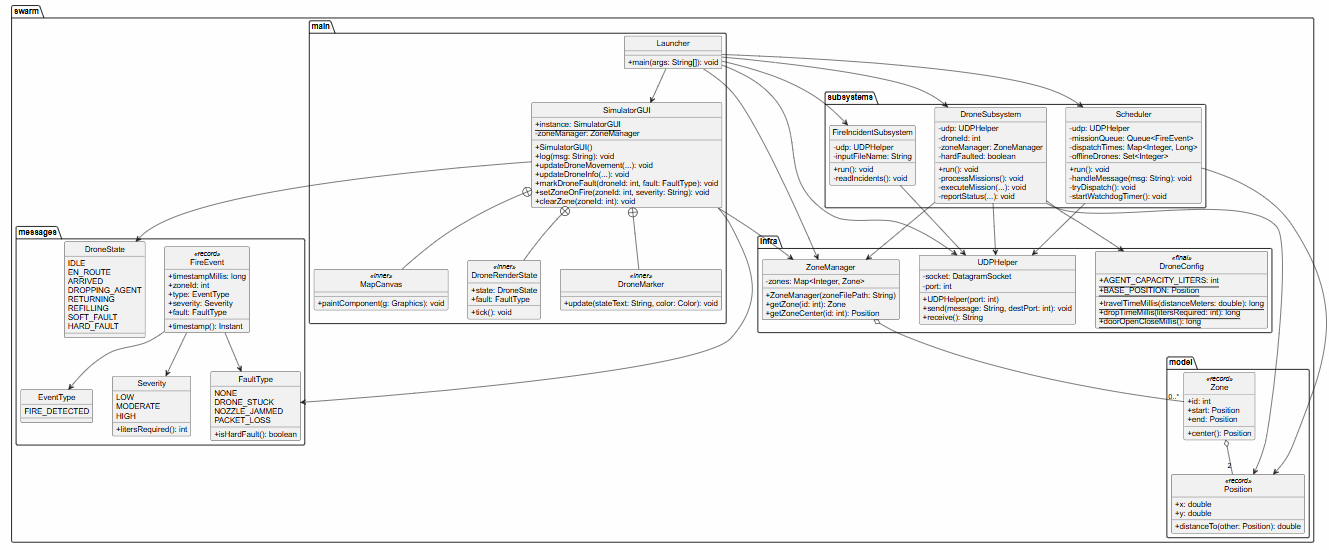
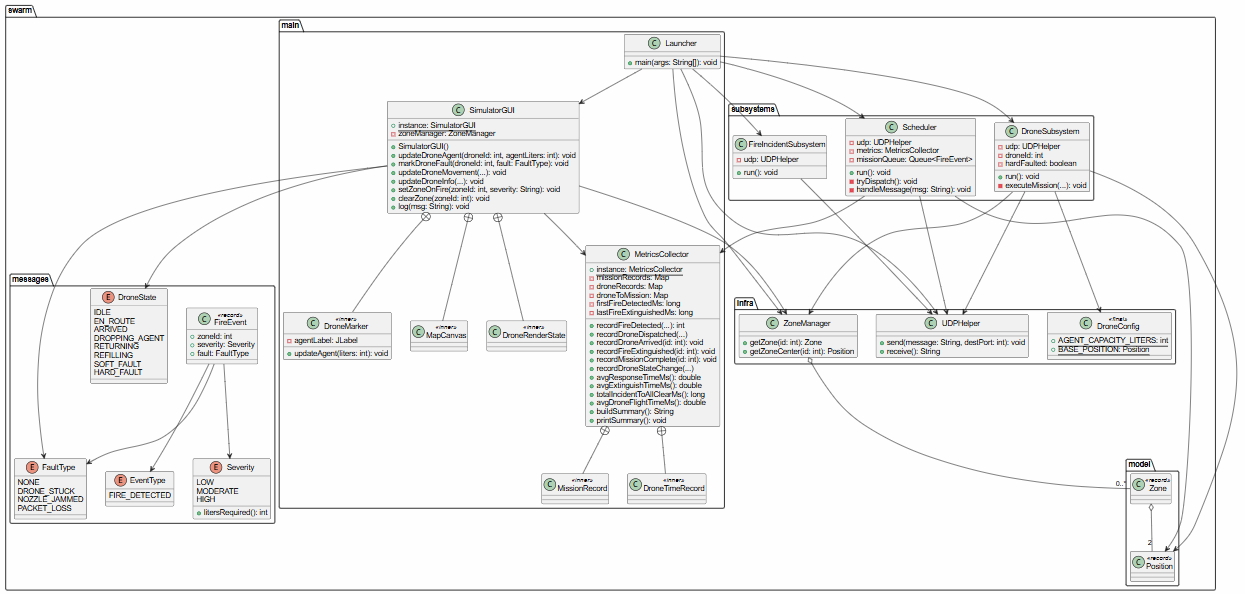
Readme and diagram update

diff --git a/README.md b/README.md
@@ -55,6 +55,20 @@ The project follows an iterative and incremental development process. GitHub Iss
 - Added en-route interception logic for returning drones
 - Updated zone CSV to full 3×3 grid (9 zones)
 
+### Team Contribution - Iteration 5
+#### Umniyah
+- Implemented the MetricsCollector singleton to compute and summarize Iteration 5 performance metrics
+- Integrated timestamp tracking across the Scheduler and GUI
+#### Armin
+- Updated system architecture UML diagrams to reflect Iteration 5 changes
+- Updated README documentation
+#### Liam
+- Implemented validation test suites for Iteration 5 features (Agent Capacity and Performance Metrics)
+#### Vincent
+- Implemented agent capacity limits and constraints
+- Updated GUI drone markers to display live agent capacity
+- Modified Scheduler dispatch logic to skip drones with insufficient payloads
+
 ---
 ## Setup Instructions
 
@@ -102,7 +116,7 @@ git clone https://github.com/UMNIYAH/Firefighting-Drone-Swarm.git
 
 ## Testing Instructions
 
-1. Open the test directory under `Deliverables/I2/src/main/tests/` in IntelliJ.
+1. Open the test directory under `Deliverables/I5/src/main/tests/` in IntelliJ.
 2. Right-click the test package.
 3. Select **Run All Tests**.
 
@@ -111,9 +125,9 @@ git clone https://github.com/UMNIYAH/Firefighting-Drone-Swarm.git
 ## System Architecture
 
 All subsystems communicate via UDP using a simple text-based protocol:
-* `FIRE:<zoneId>:<severity>:<eventType>` - Fire events sent to Scheduler (port 5000)
-* `CMD:<zoneId>:<severity>` - Commands sent from Scheduler to Drone (port 6000 + droneId)
-* `STATUS:<droneId>:<state>:<zoneId>:<posX>:<posY>` - Status updates sent from Drone to Scheduler (port 5000)
+* `FIRE:<zoneId>:<severity>:<eventType>:<fault>` - Fire events sent to Scheduler (port 5000)
+* `CMD:<zoneId>:<severity>:<fault>` - Commands sent from Scheduler to Drone (port 6000 + droneId)
+* `STATUS:<droneId>:<state>:<zoneId>:<posX>:<posY>:<fault>` - Status updates sent from Drone to Scheduler (port 5000)
 
 ---
 
@@ -126,7 +140,7 @@ The Scheduler acts as the central coordination system.
 Responsibilities:
 * Receives fire events from the Fire Incident Subsystem via UDP
 * Maintains a mission queue for pending fire incidents
-* Dispatches the **closest idle drone** to the fire zone
+* Dispatches the closest idle drone that carries sufficient agent capacity to the fire zone
 * Balances workload across drones using completed mission count as a tiebreaker
 * Tracks drone positions, states, and ports
 * Receives drone status updates and re-dispatches queued missions when drones become idle
@@ -142,6 +156,7 @@ Responsibilities:
 * Returns to base and refills agent capacity
 * Reports status and position back to the Scheduler after each state transition
 * Drone state lifecycle: `IDLE → EN_ROUTE → ARRIVED → DROPPING_AGENT → RETURNING → REFILLING → IDLE`
+* Tracks and depletes its internal agent payload based on mission severity
 
 ### Fire Incident Subsystem
 
@@ -162,6 +177,17 @@ Responsibilities:
 * Displays per-drone state and current zone assignment
 * Tracks active incident count
 * Logs all subsystem events in a scrollable log panel
+* Displays dynamic drone markers including live agent capacity readouts
+* Interactive "Show Metrics" console trigger
+
+### Metrics Collector
+
+A performance tracking singleton managed by the main system.
+
+Responsibilities:
+* Records critical timestamps throughout the simulation lifecycle (detect, dispatch, arrive, extinguish)
+* Calculates average response times, extinguish times, and total incident to all clear durations
+* Tracks per drone metrics including total flight time, total idle time, and completed missions
 
 ### Launcher
 
@@ -192,6 +218,7 @@ Firefighting-Drone-Swarm/
 │               │
 │               ├── main/          
 │               │   ├── Launcher.java
+│               │   ├── MetricsCollector.java
 │               │   └── SimulatorGUI.java
 │               │
 │               ├── messages/      
@@ -199,6 +226,7 @@ Firefighting-Drone-Swarm/
 │               │   ├── DroneState.java
 │               │   ├── DroneStatus.java
 │               │   ├── EventType.java
+│               │   ├── FaultType.java
 │               │   ├── FireEvent.java
 │               │   └── Severity.java
 │               │
